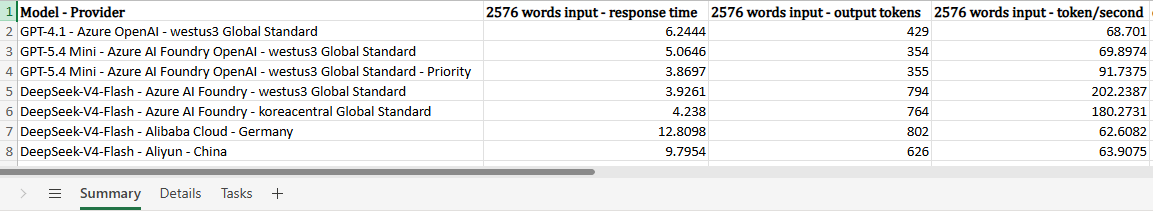
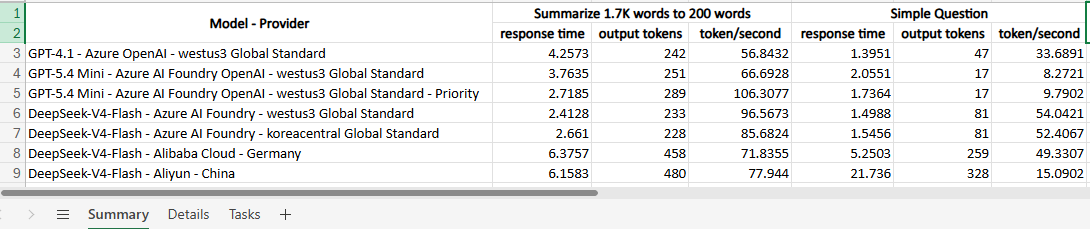
update

Changed region(s): [[0.0, 0.0, 1.0, 1.0], [0.8734, 0.2233, 0.9046, 0.2512]]

diff --git a/src/multi_llm_speed_comparison/config.py b/src/multi_llm_speed_comparison/config.py
@@ -30,11 +30,7 @@ class ModelConfig:
 # BenchmarkTask(name="5k", prompt="paste roughly 5k tokens here")
 BENCHMARK_TASKS = [
     BenchmarkTask(
-        name="Simple Task",
-        prompt="what model are you?",
-    ),
-    BenchmarkTask(
-        name="Summarize 1.7K words to 200",
+        name="Summarize 1.7K words to 200 words",
         prompt="""
 Please read the provided article regarding the evolution of human communication from the Stone Age to the Silicon Age. Your task is to summarize this text into exactly 200 words. The summary must capture the central thesis of each section, maintain the chronological flow, and accurately reflect the author's concluding thoughts on the future of neural interfaces. Do not include personal opinions or outside information. Focus strictly on the provided text.
 Below is the source text intended for this evaluation.
@@ -71,6 +67,10 @@ Language is, effectively, a compression algorithm. We take complex thoughts and 
 This potential future raises profound ethical and philosophical questions. If our thoughts can be transmitted or accessed digitally, what happens to the concept of privacy? If we can offload our memory to the cloud, how does that change our sense of self? We are standing on the precipice of a new evolutionary step, one where the tool of communication may no longer be something we hold in our hands, but something we become.
         """,
     ),
+    BenchmarkTask(
+        name="Simple Question",
+        prompt="what model are you?",
+    ),
 ]
 
 # Number of calls per model/task pair. The final Excel value is the average.
@@ -81,53 +81,53 @@ TEMPERATURE = 0
 
 
 MODEL_CONFIGS = [
-    # ModelConfig(
-    #     display_name="GPT-4.1 - Azure OpenAI - westus3 Global Standard",
-    #     provider="azure_openai",
-    #     endpoint_env="AZURE_OPENAI_ENDPOINT",
-    #     api_key_env="AZURE_OPENAI_API_KEY",
-    #     model_env="AZURE_OPENAI_GPT41_DEPLOYMENT",
-    #     api_version_env="AZURE_OPENAI_API_VERSION",
-    # ),
-    # ModelConfig(
-    #     display_name="GPT-5.4 Mini - Azure AI Foundry OpenAI - westus3 Global Standard",
-    #     provider="azure_foundry_openai",
-    #     endpoint_env="AZURE_FOUNDRY_ENDPOINT_OPENAI",
-    #     api_key_env="AZURE_FOUNDRY_API_KEY",
-    #     model_env="AZURE_FOUNDRY_GPT54_MINI_MODEL_OPENAI",
-    #     api_version_env="AZURE_FOUNDRY_API_VERSION_OPENAI",
-    # ),
-    # ModelConfig(
-    #     display_name="GPT-5.4 Mini - Azure AI Foundry OpenAI - westus3 Global Standard - Priority",
-    #     provider="azure_foundry_openai",
-    #     endpoint_env="AZURE_FOUNDRY_ENDPOINT_OPENAI",
-    #     api_key_env="AZURE_FOUNDRY_API_KEY",
-    #     model_env="AZURE_FOUNDRY_GPT54_MINI_MODEL_OPENAI_priority",
-    #     api_version_env="AZURE_FOUNDRY_API_VERSION_OPENAI",
-    # ),
-    # ModelConfig(
-    #     display_name="DeepSeek-V4-Flash - Azure AI Foundry - westus3 Global Standard",
-    #     provider="azure_foundry",
-    #     endpoint_env="AZURE_FOUNDRY_ENDPOINT",
-    #     api_key_env="AZURE_FOUNDRY_API_KEY",
-    #     model_env="AZURE_FOUNDRY_DEEPSEEK_V4_FLASH_MODEL",
-    #     api_version_env="AZURE_FOUNDRY_API_VERSION",
-    # ),
-    # ModelConfig(
-    #     display_name="DeepSeek-V4-Flash - Azure AI Foundry - koreacentral Global Standard",
-    #     provider="azure_foundry",
-    #     endpoint_env="AZURE_FOUNDRY_ENDPOINT_KOREA_CENTRAL",
-    #     api_key_env="AZURE_FOUNDRY_API_KEY_KOREA_CENTRAL",
-    #     model_env="AZURE_FOUNDRY_DEEPSEEK_V4_FLASH_MODEL_KOREA_CENTRAL",
-    #     api_version_env="AZURE_FOUNDRY_API_VERSION_KOREA_CENTRAL",
-    # ),
-    # ModelConfig(
-    #     display_name="DeepSeek-V4-Flash - Alibaba Cloud - Germany",
-    #     provider="openai_compatible",
-    #     endpoint_env="ALIBABA_CLOUD_COMPATIBLE_BASE_URL",
-    #     api_key_env="ALIBABA_CLOUD_API_KEY",
-    #     model_env="ALIBABA_DEEPSEEK_V4_FLASH_MODEL",
-    # ),
+    ModelConfig(
+        display_name="GPT-4.1 - Azure OpenAI - westus3 Global Standard",
+        provider="azure_openai",
+        endpoint_env="AZURE_OPENAI_ENDPOINT",
+        api_key_env="AZURE_OPENAI_API_KEY",
+        model_env="AZURE_OPENAI_GPT41_DEPLOYMENT",
+        api_version_env="AZURE_OPENAI_API_VERSION",
+    ),
+    ModelConfig(
+        display_name="GPT-5.4 Mini - Azure AI Foundry OpenAI - westus3 Global Standard",
+        provider="azure_foundry_openai",
+        endpoint_env="AZURE_FOUNDRY_ENDPOINT_OPENAI",
+        api_key_env="AZURE_FOUNDRY_API_KEY",
+        model_env="AZURE_FOUNDRY_GPT54_MINI_MODEL_OPENAI",
+        api_version_env="AZURE_FOUNDRY_API_VERSION_OPENAI",
+    ),
+    ModelConfig(
+        display_name="GPT-5.4 Mini - Azure AI Foundry OpenAI - westus3 Global Standard - Priority",
+        provider="azure_foundry_openai",
+        endpoint_env="AZURE_FOUNDRY_ENDPOINT_OPENAI",
+        api_key_env="AZURE_FOUNDRY_API_KEY",
+        model_env="AZURE_FOUNDRY_GPT54_MINI_MODEL_OPENAI_priority",
+        api_version_env="AZURE_FOUNDRY_API_VERSION_OPENAI",
+    ),
+    ModelConfig(
+        display_name="DeepSeek-V4-Flash - Azure AI Foundry - westus3 Global Standard",
+        provider="azure_foundry",
+        endpoint_env="AZURE_FOUNDRY_ENDPOINT",
+        api_key_env="AZURE_FOUNDRY_API_KEY",
+        model_env="AZURE_FOUNDRY_DEEPSEEK_V4_FLASH_MODEL",
+        api_version_env="AZURE_FOUNDRY_API_VERSION",
+    ),
+    ModelConfig(
+        display_name="DeepSeek-V4-Flash - Azure AI Foundry - koreacentral Global Standard",
+        provider="azure_foundry",
+        endpoint_env="AZURE_FOUNDRY_ENDPOINT_KOREA_CENTRAL",
+        api_key_env="AZURE_FOUNDRY_API_KEY_KOREA_CENTRAL",
+        model_env="AZURE_FOUNDRY_DEEPSEEK_V4_FLASH_MODEL_KOREA_CENTRAL",
+        api_version_env="AZURE_FOUNDRY_API_VERSION_KOREA_CENTRAL",
+    ),
+    ModelConfig(
+        display_name="DeepSeek-V4-Flash - Alibaba Cloud - Germany",
+        provider="openai_compatible",
+        endpoint_env="ALIBABA_CLOUD_COMPATIBLE_BASE_URL",
+        api_key_env="ALIBABA_CLOUD_API_KEY",
+        model_env="ALIBABA_DEEPSEEK_V4_FLASH_MODEL",
+    ),
     ModelConfig(
         display_name="DeepSeek-V4-Flash - Aliyun - China",
         provider="openai_compatible",

diff --git a/README.md b/README.md
@@ -3,7 +3,7 @@
 `multi-llm-speed-comparison` evaluates response speed for multiple LLM models across providers. 
 ![summary.png](readme/images/summary.png)
 ![detail.png](readme/images/detail.png)
-![Tasks.png](readme/images/Tasks.png)  
+![tasks.png](readme/images/tasks.png)  
 This Excel file is an output example: [llm_evaluation_output_example.xlsx](llm_evaluation_output_example.xlsx)
 ## 1. Setup
 